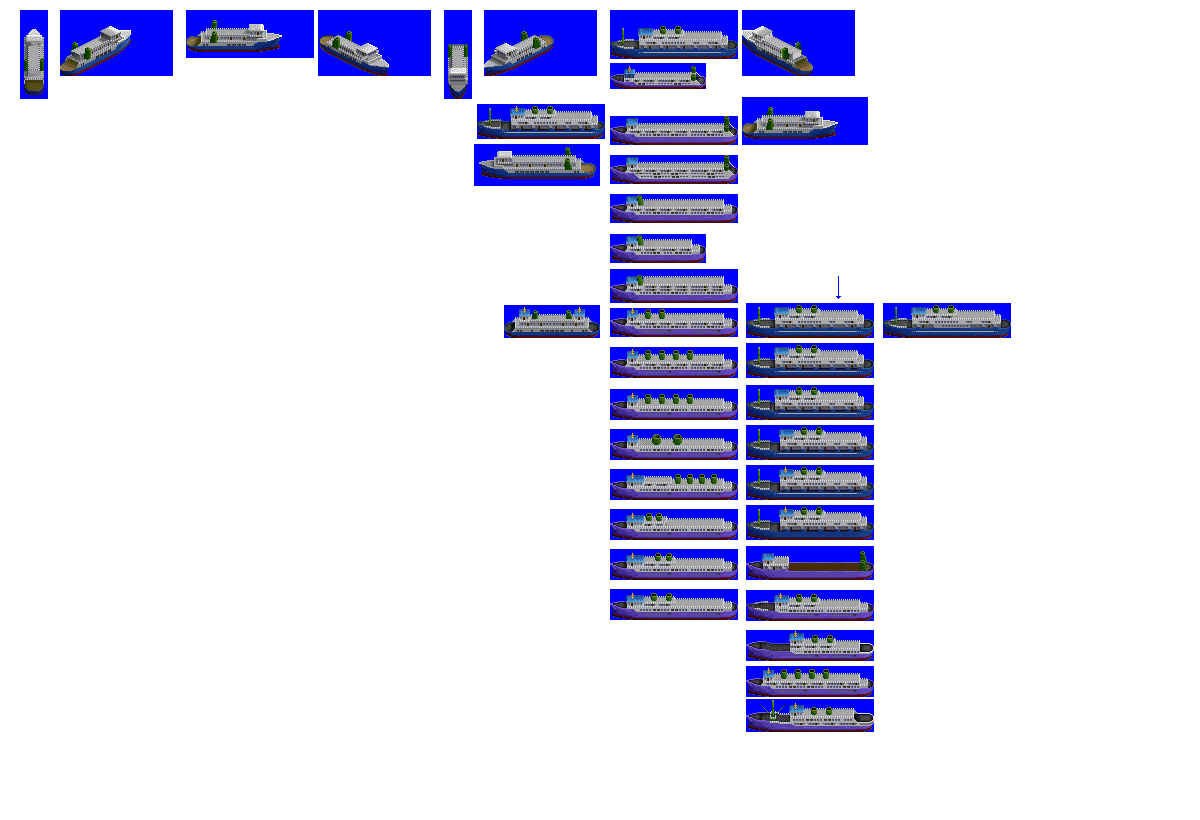
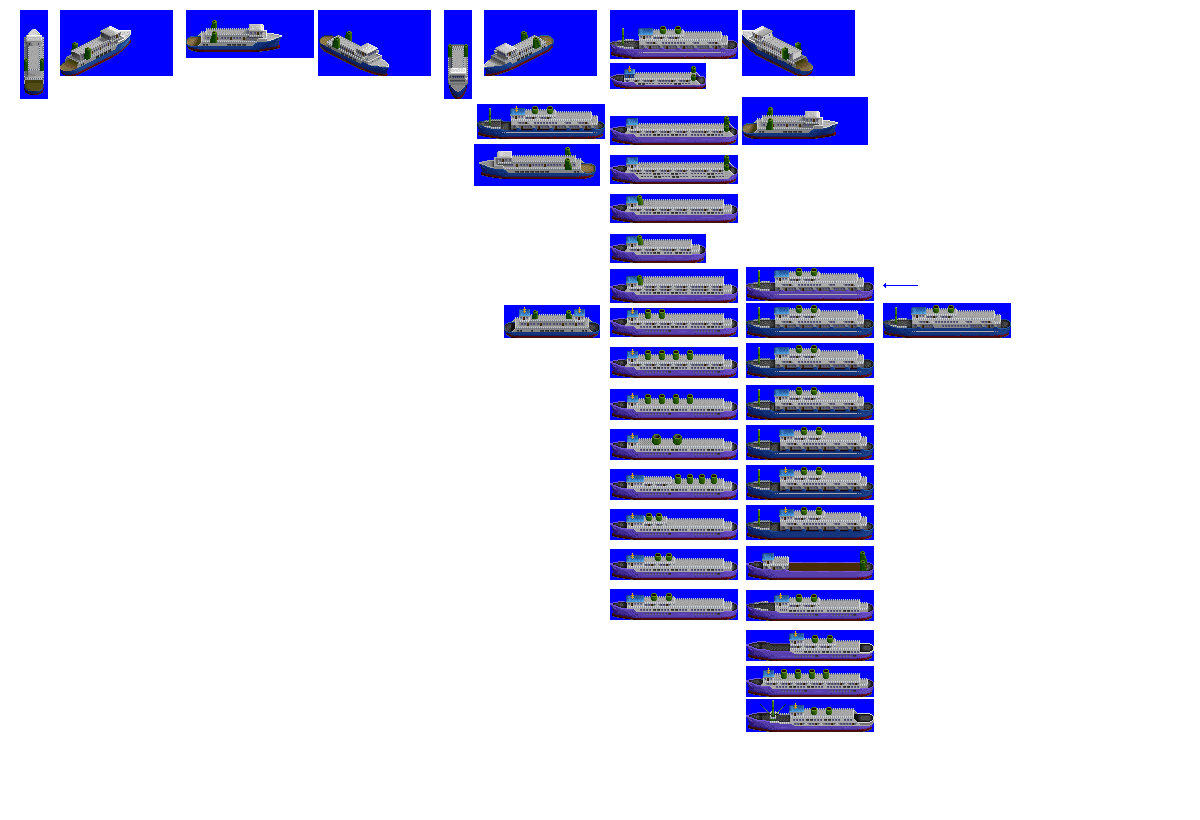
Change: WIP on pax ships

Changed region(s): [[0.6167, 0.3049, 0.74, 0.3659], [0.5242, 0.061, 0.6167, 0.0915]]

diff --git a/src/graphics_processor/graphics_constants.py b/src/graphics_processor/graphics_constants.py
@@ -45,7 +45,7 @@ mail_livery_recolour_maps = (# see note on DFLT above
                                       ("DFLT", hull_recolour_CC1),)
 # Pax Luxury, only DFLT is used as of Jan 2018
 pax_luxury_livery_recolour_maps = (# see note on DFLT above
-                                      ("DFLT", hull_recolour_CC1),)
+                                      ("DFLT", hull_recolour_CC2),)
 # Piece goods carrier, only DFLT is used as of Jan 2018
 piece_goods_carrier_livery_recolour_maps = (# see note on DFLT above
                                       ("DFLT", hull_recolour_CC1),)

diff --git a/src/ships/pax_fast_loading_large.py b/src/ships/pax_fast_loading_large.py
@@ -3,7 +3,7 @@ from ship import PaxFastLoadingShip
 
 ship = PaxFastLoadingShip(id = 'pax_fast_loading_large',
                     numeric_id = 21,
-                    title = '[Pax Fast Loading]',
+                    title = 'Timmyknocky [Pax Fast Loading]',
                     hull = 'TempHouseNoneSmall',
                     buy_cost = 28,
                     fixed_run_cost_factor = 3.5,

diff --git a/src/ships/pax_fast_loading_small.py b/src/ships/pax_fast_loading_small.py
@@ -3,7 +3,7 @@ from ship import PaxFastLoadingShip
 
 ship = PaxFastLoadingShip(id = 'pax_fast_loading_small',
                     numeric_id = 24,
-                    title = '[Pax Fast Loading]',
+                    title = 'Toolbox [Pax Fast Loading]',
                     hull = 'TempHouseNoneMini',
                     buy_cost = 28,
                     fixed_run_cost_factor = 3.5,

diff --git a/src/ships/pax_fast_loading_mini.py b/src/ships/pax_fast_loading_mini.py
@@ -3,7 +3,7 @@ from ship import PaxFastLoadingShip
 
 ship = PaxFastLoadingShip(id = 'pax_fast_loading_mini',
                     numeric_id = 25,
-                    title = '[Pax Fast Loading]',
+                    title = 'Tiddles [Pax Fast Loading]',
                     hull = 'TwoWayFerryMini',
                     buy_cost = 28,
                     fixed_run_cost_factor = 3.5,
